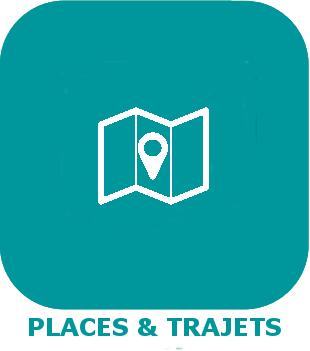
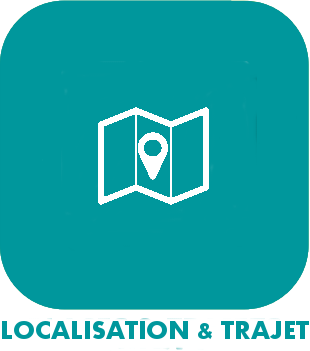
navitia + type loc

Changed region(s): [[0.0, 0.8832, 1.0, 0.9687]]

diff --git a/desktop/js/geotrav.js b/desktop/js/geotrav.js
@@ -18,6 +18,18 @@
 
  $("#table_cmd").sortable({axis: "y", cursor: "move", items: ".cmd", placeholder: "ui-state-highlight", tolerance: "intersect", forcePlaceholderSize: true});
 
+ $('#typeLoc').change(function(){
+   var text = $("#typeLoc").val();
+   if (text == 'coordinate') {
+     $('#coordinate').show();
+     $('#address').hide();
+   }
+   if (text == 'address') {
+     $('#coordinate').hide();
+     $('#address').show();
+   }
+ });
+
 function addCmdToTable(_cmd) {
     if (!isset(_cmd)) {
         var _cmd = {configuration: {}};

diff --git a/core/class/geotrav.class.php b/core/class/geotrav.class.php
@@ -273,10 +273,19 @@ class geotrav extends eqLogic {
 
     public function refreshStation($options='none') {
         $stationEq = geotrav::byId($this->getConfiguration('stationPoint'));
-        $url = 'https://' . config::byKey('keyNavitia','geotrav') . '@api.navitia.io/v1/coord/' . urlencode($stationEq->getConfiguration('coordinate'));
+        $loc = urlencode($stationEq->byEqLogicIdAndLogicalId($this->getId(),'location:longitude')) . ';' . urlencode($stationEq->byEqLogicIdAndLogicalId($this->getId(),'location:latitude'));
+        $url = 'https://' . config::byKey('keyNavitia','geotrav') . '@api.navitia.io/v1/coverage/' . $loc '/coords/' . $loc . '/departures/';
         $data = file_get_contents($url);
         $jsondata = json_decode($data,true);
         log::add('geotrav', 'debug', 'Station ' . $url . print_r($jsondata,true));
+        $this->checkAndUpdateCmd('station:1direction', $jsondata['departures'][0]['display_informations']['direction']);
+        $this->checkAndUpdateCmd('station:1time', $jsondata['departures'][0]['stop_date_time']['departure_date_time']);
+        $this->checkAndUpdateCmd('station:1line', $jsondata['departures'][0]['display_informations']['code']);
+        $this->checkAndUpdateCmd('station:1stop', $jsondata['departures'][0]['stop_point']['name']);
+        $this->checkAndUpdateCmd('station:2direction', $jsondata['departures'][0]['display_informations']['direction']);
+        $this->checkAndUpdateCmd('station:2time', $jsondata['departures'][0]['stop_date_time']['departure_date_time']);
+        $this->checkAndUpdateCmd('station:2line', $jsondata['departures'][0]['display_informations']['code']);
+        $this->checkAndUpdateCmd('station:2stop', $jsondata['departures'][0]['stop_point']['name']);
         $this->refreshWidget();
     }
 

diff --git a/desktop/php/geotrav.php b/desktop/php/geotrav.php
@@ -101,6 +101,15 @@ $eqLogics = eqLogic::byType('geotrav');
               </div>
             </div>
             <div id="location">
+                <div class="form-group">
+                  <label class="col-sm-2 control-label" >{{Mode de configuration}}</label>
+                  <div class="col-sm-3">
+                    <select id="typeLoc" class="form-control eqLogicAttr" data-l1key="configuration" data-l2key="typeConfLoc">
+                      <option value="coordinate" selected>{{Par Coordonnées}}</option>
+                      <option value="address">{{Par Adresse}}</option>
+                    </select>
+                  </div>
+                </div>
               <div class="form-group" id="coordinate">
                 <label class="col-sm-2 control-label">{{Coordonnées}}</label>
                 <div class="col-sm-3">
